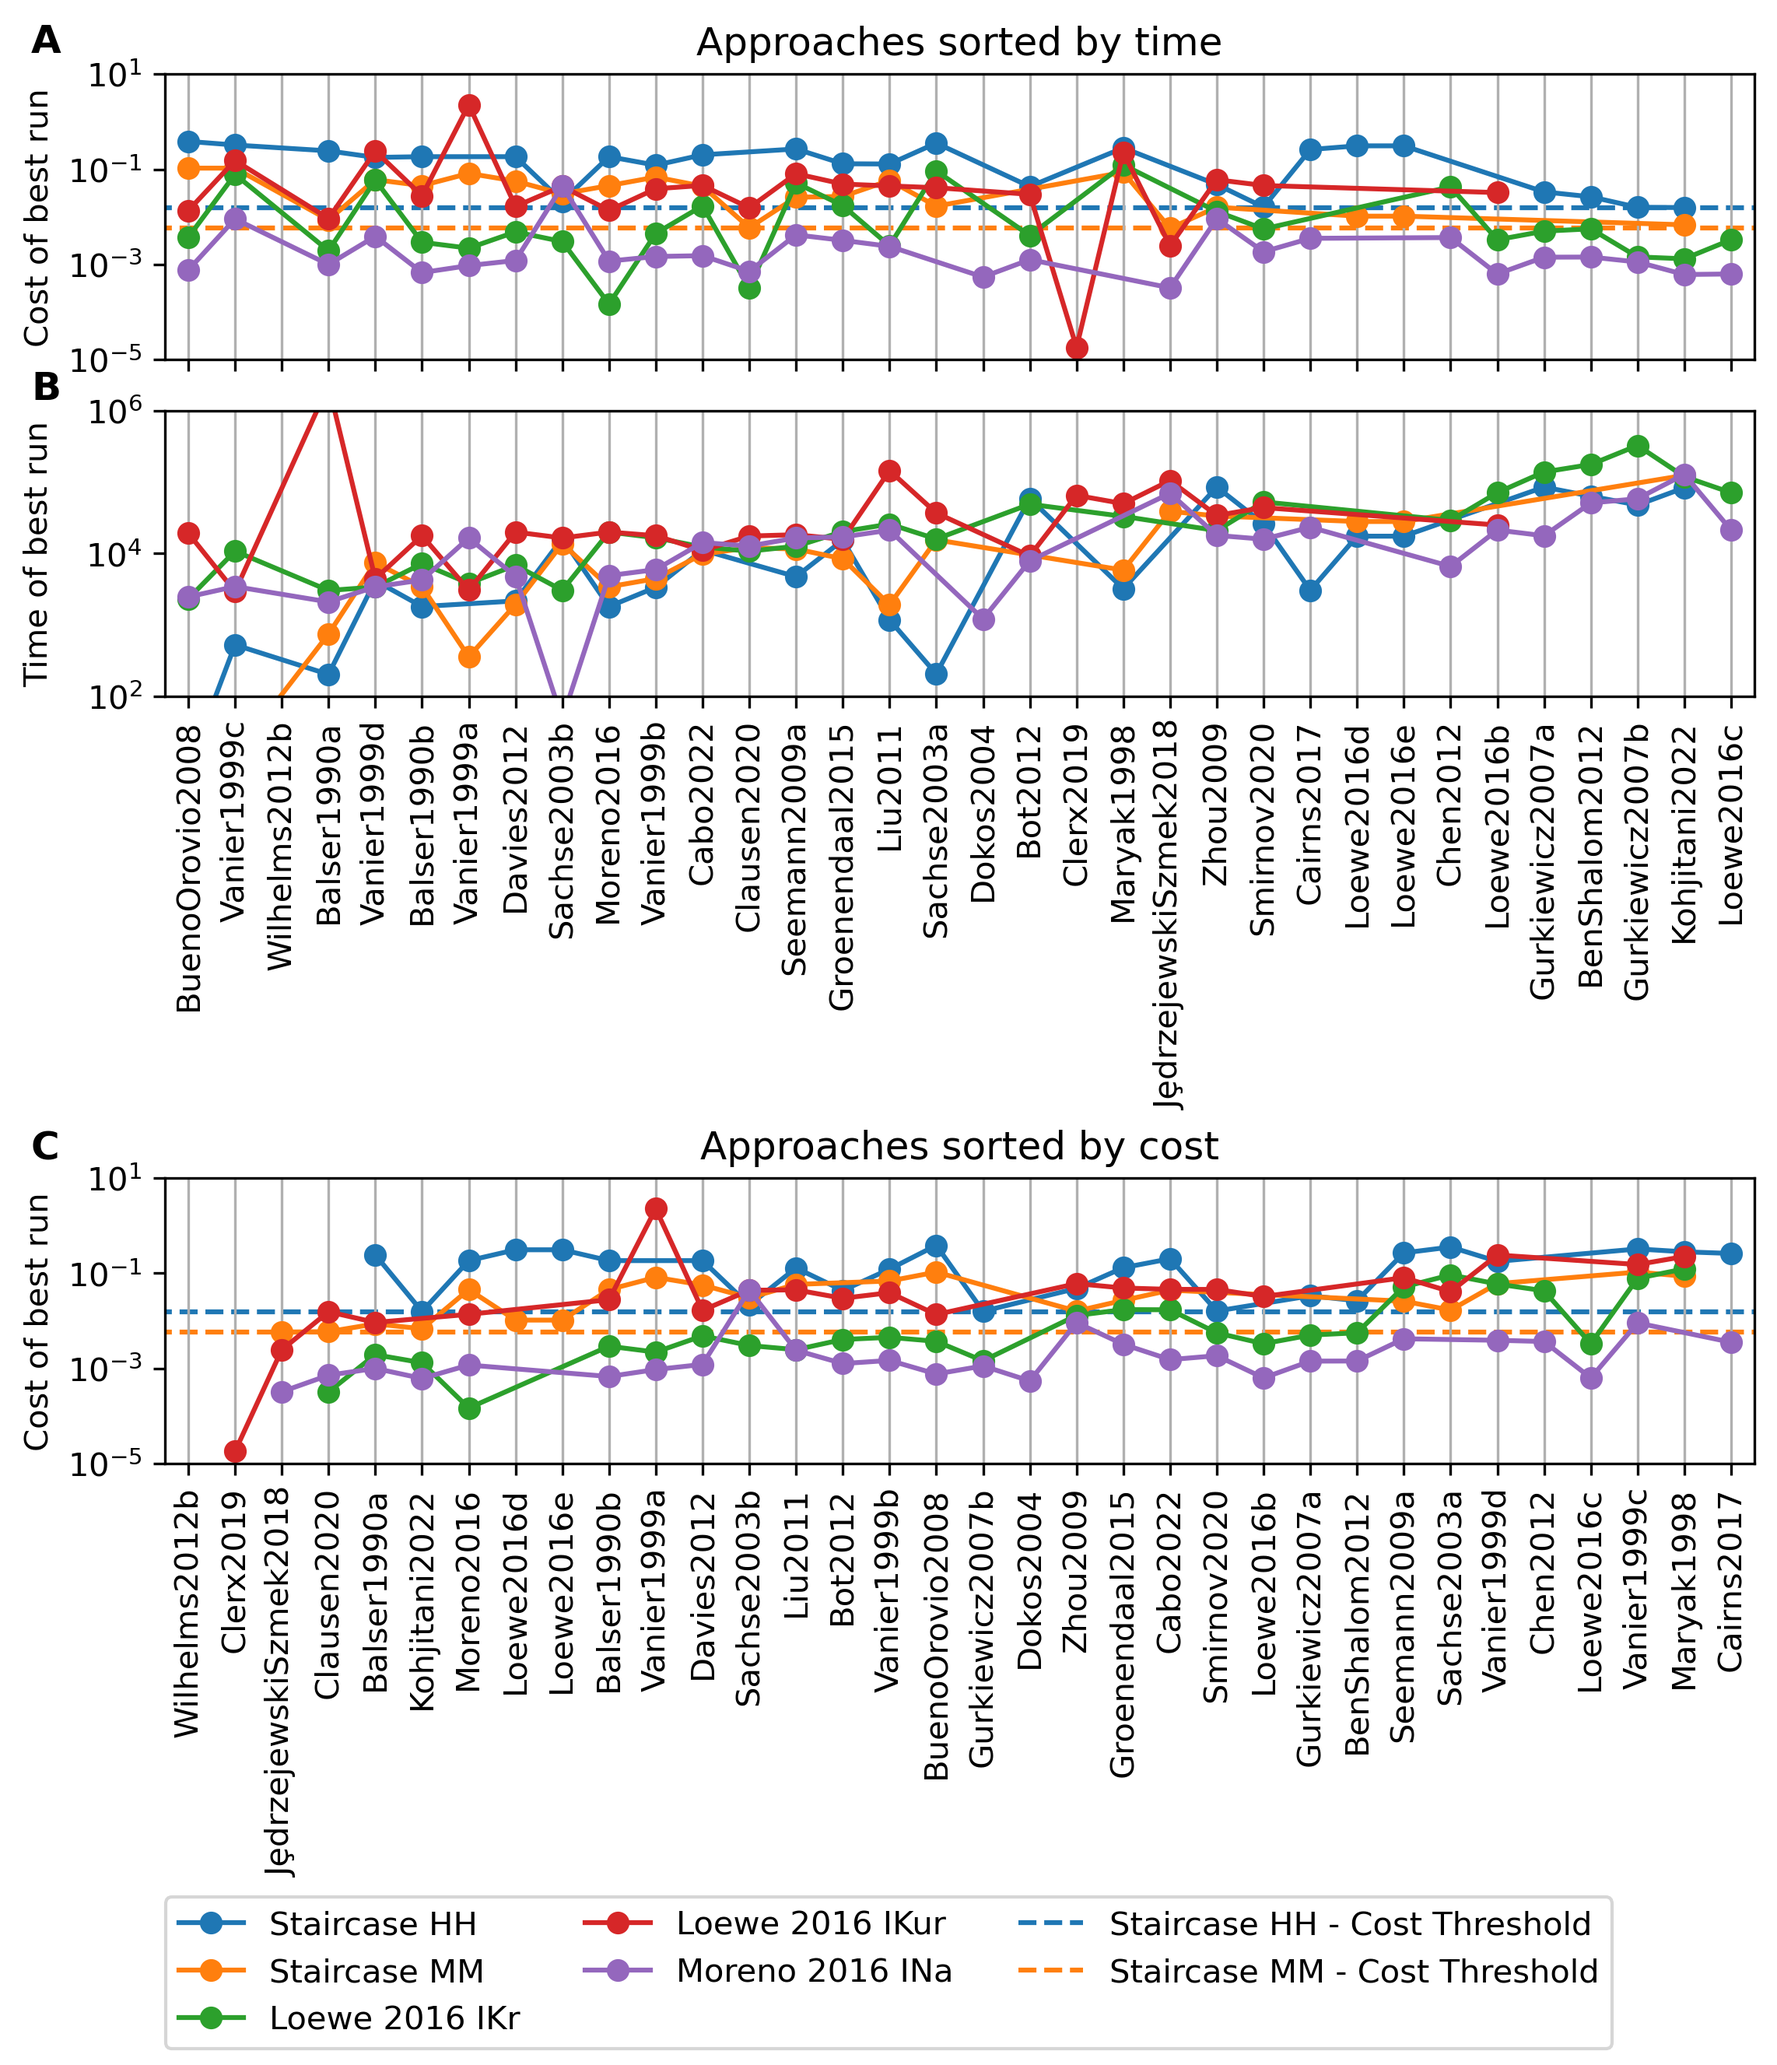
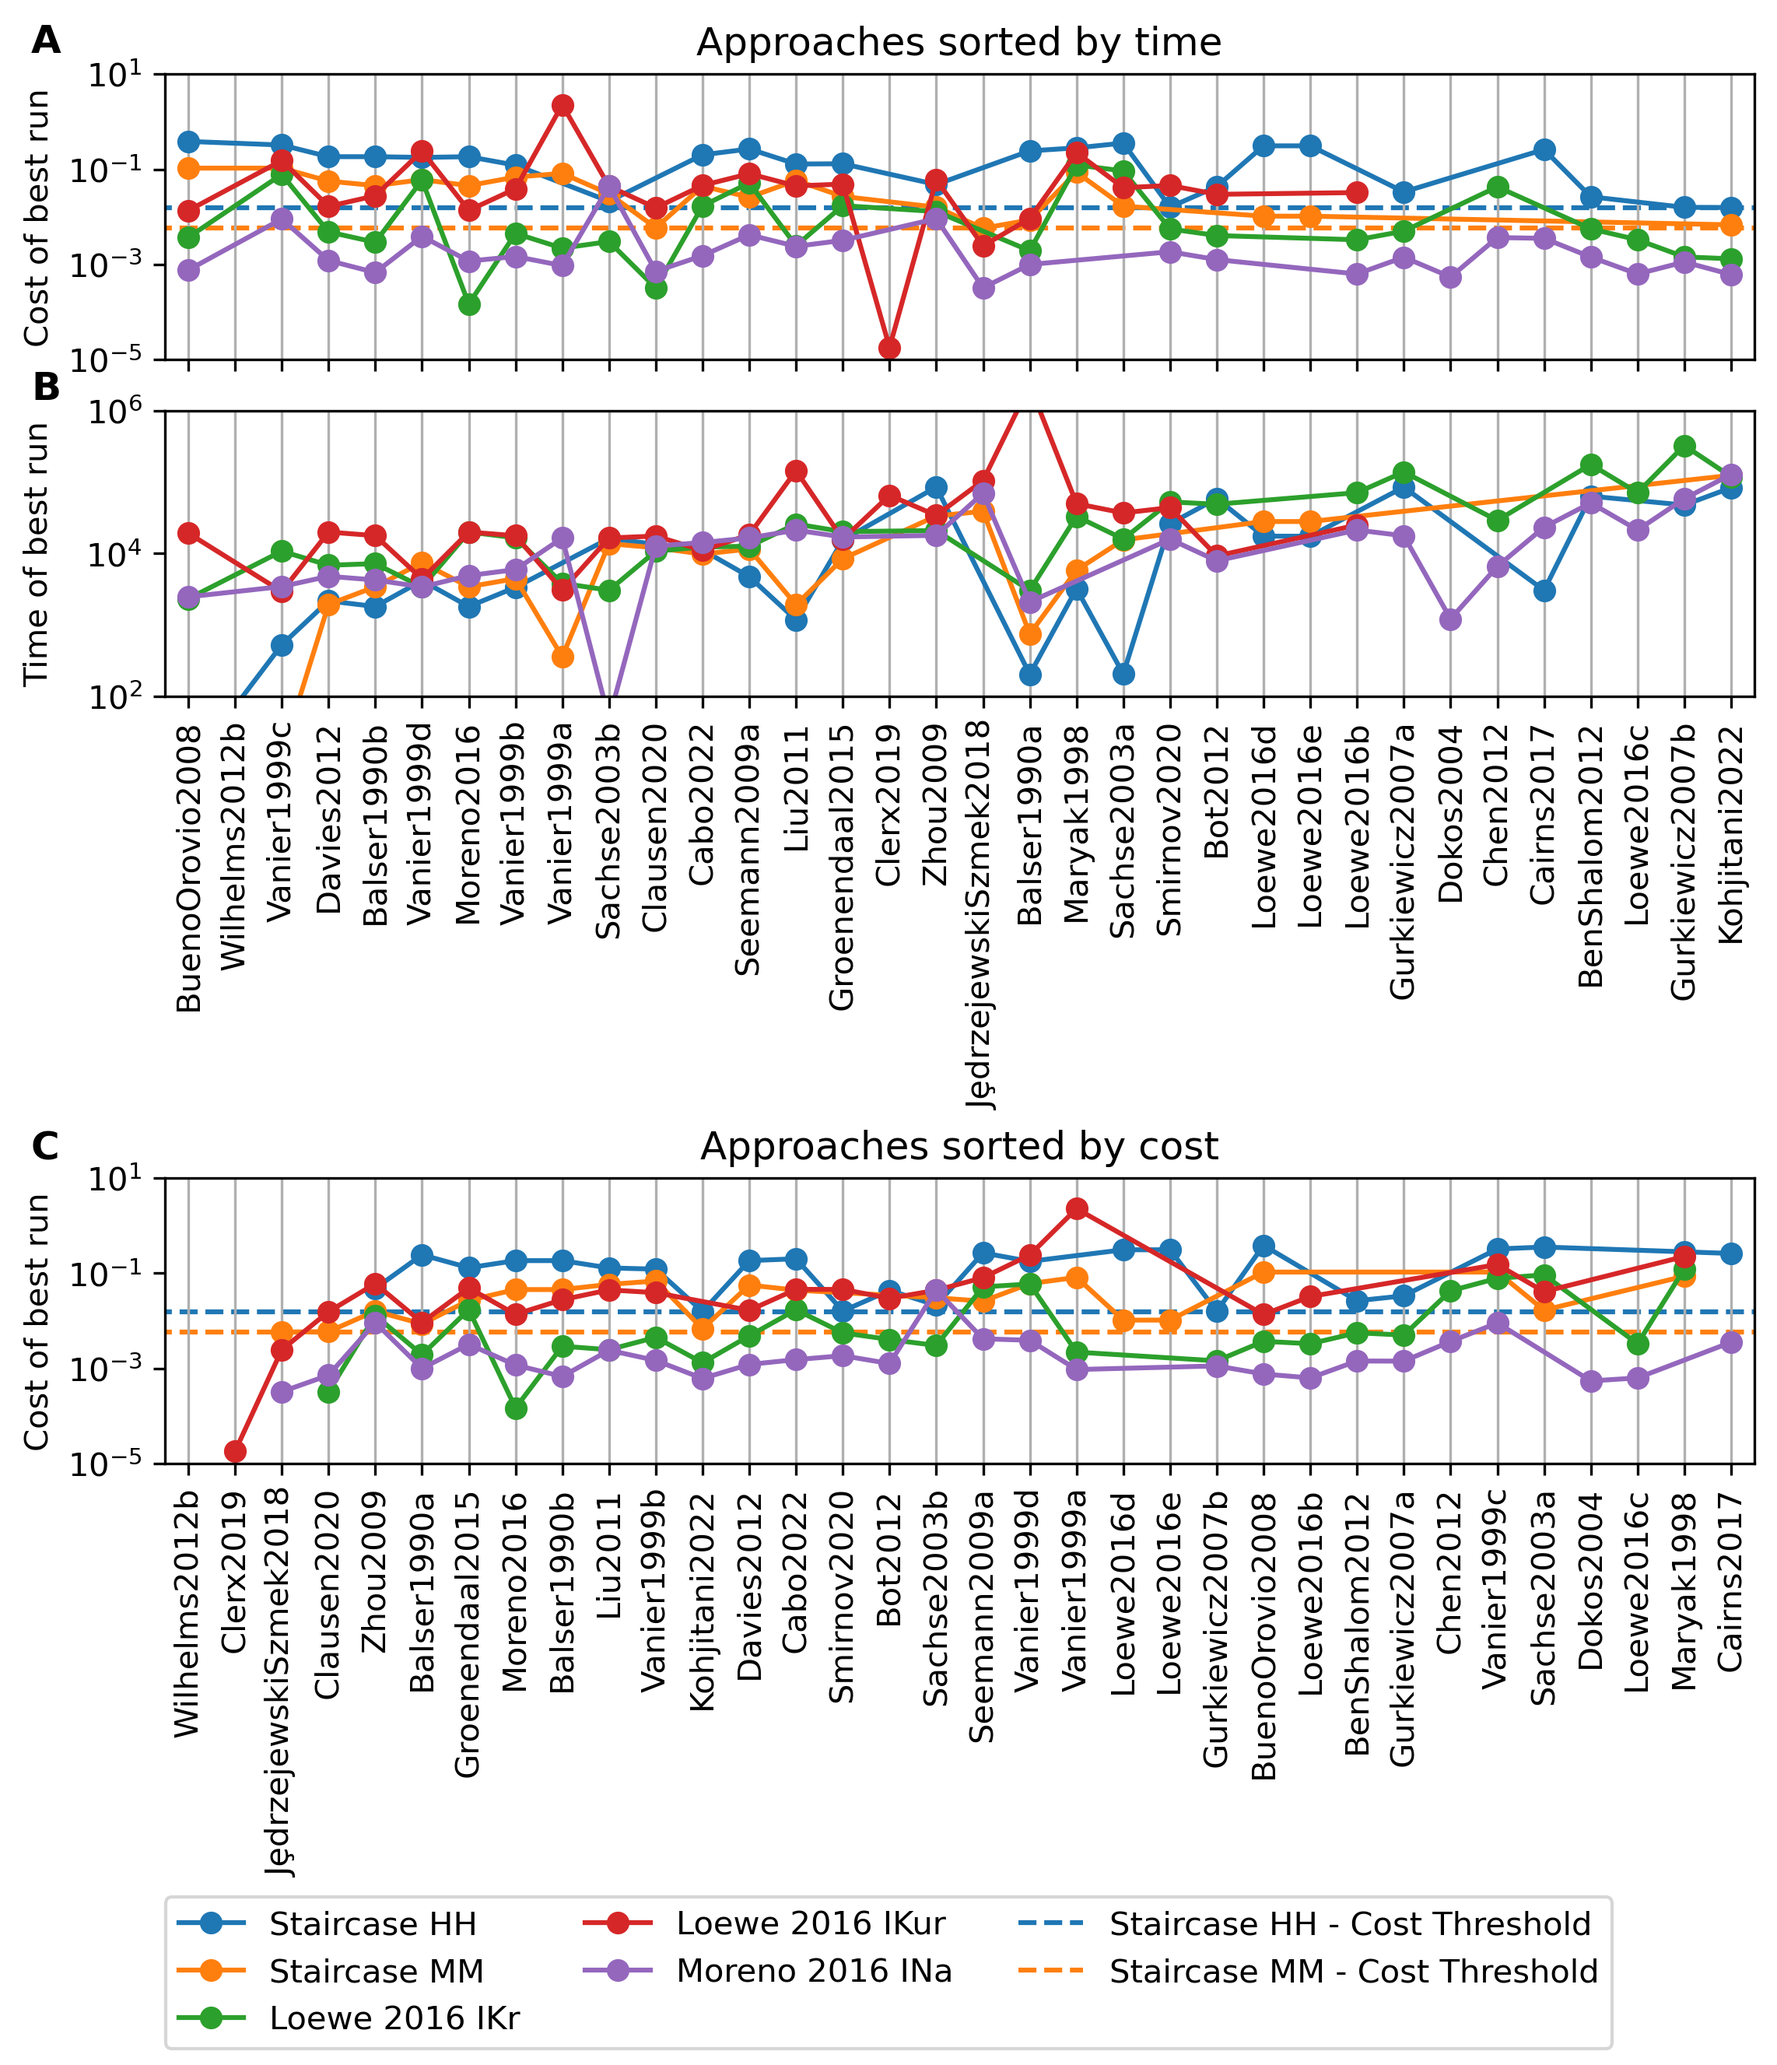
improved sorting in failed results plot
rather than sorting based on the individual sortings, it considered how important a particular sorting is by looking at the difference in cost/time

diff --git a/scripts/resultsFigures.py b/scripts/resultsFigures.py
@@ -14,6 +14,10 @@ def apply_identifiers(name, types):
     return name
 
 
+def sorting_score(x, xmin, xmax):
+    return np.linalg.norm((x-xmin)/(xmax-xmin))
+
+
 def simplify_name(name):
     # Apply any a-z identifiers
     if 'Balser' in name:
@@ -111,6 +115,8 @@ def fail_plot(dfs, dfsSumm, titles):
     kwargs = {'sortVar': [1, 1, 2], 'plotVar': ['cost', 'time', 'cost'], 'placeTicks': [False, True, True], 'ylim': [(1e-5, 10), (1e2, 1e6), (1e-5, 10)]}
     for plotNum in range(len(axs)):
         data = []
+        maxs = []
+        mins = []
         for i in range(len(dfs)):
             df = dfs[i]
             xName = []
@@ -135,20 +141,23 @@ def fail_plot(dfs, dfsSumm, titles):
                 originalIndex.append(j)
                 xTime.append(times[ind])
                 xCost.append(costs[ind])
-            # Sort data by keyword settings
+            maxs.append(np.nanmax(xCost if kwargs['sortVar'][plotNum] == 2 else xTime))
+            mins.append(np.nanmin(xCost if kwargs['sortVar'][plotNum] == 2 else xTime))
             sortedData = sorted(zip(xName, xTime, xCost, originalIndex), key=lambda x: x[kwargs['sortVar'][plotNum]])
             data.append(sortedData)
         # Find some global sorting for all approaches
         bestFit = []
         # Let each problem vote for the best approach
         scores = {}
-        for i in data:  # For each sorted data set (different problems)
-            for count, j in enumerate(i):
+        for prob, i in enumerate(data):  # For each sorted data set (different problems)
+            for j in i:
                 if j[0] not in scores:
                     scores[j[0]] = 0
-                scores[j[0]] += count  # Lower score means better approach
-                # Add random perturbation to avoid ties
-                scores[j[0]] += np.random.rand() * 1e-6
+                inc = sorting_score(j[kwargs['sortVar'][plotNum]], mins[prob], maxs[prob])  # Lower score means better approach
+                if np.isnan(inc):
+                    scores[j[0]] += 1
+                else:
+                    scores[j[0]] += inc
         # Sort data by score
         for i in data:
             sortedData = sorted(i, key=lambda x: scores[x[0]])
